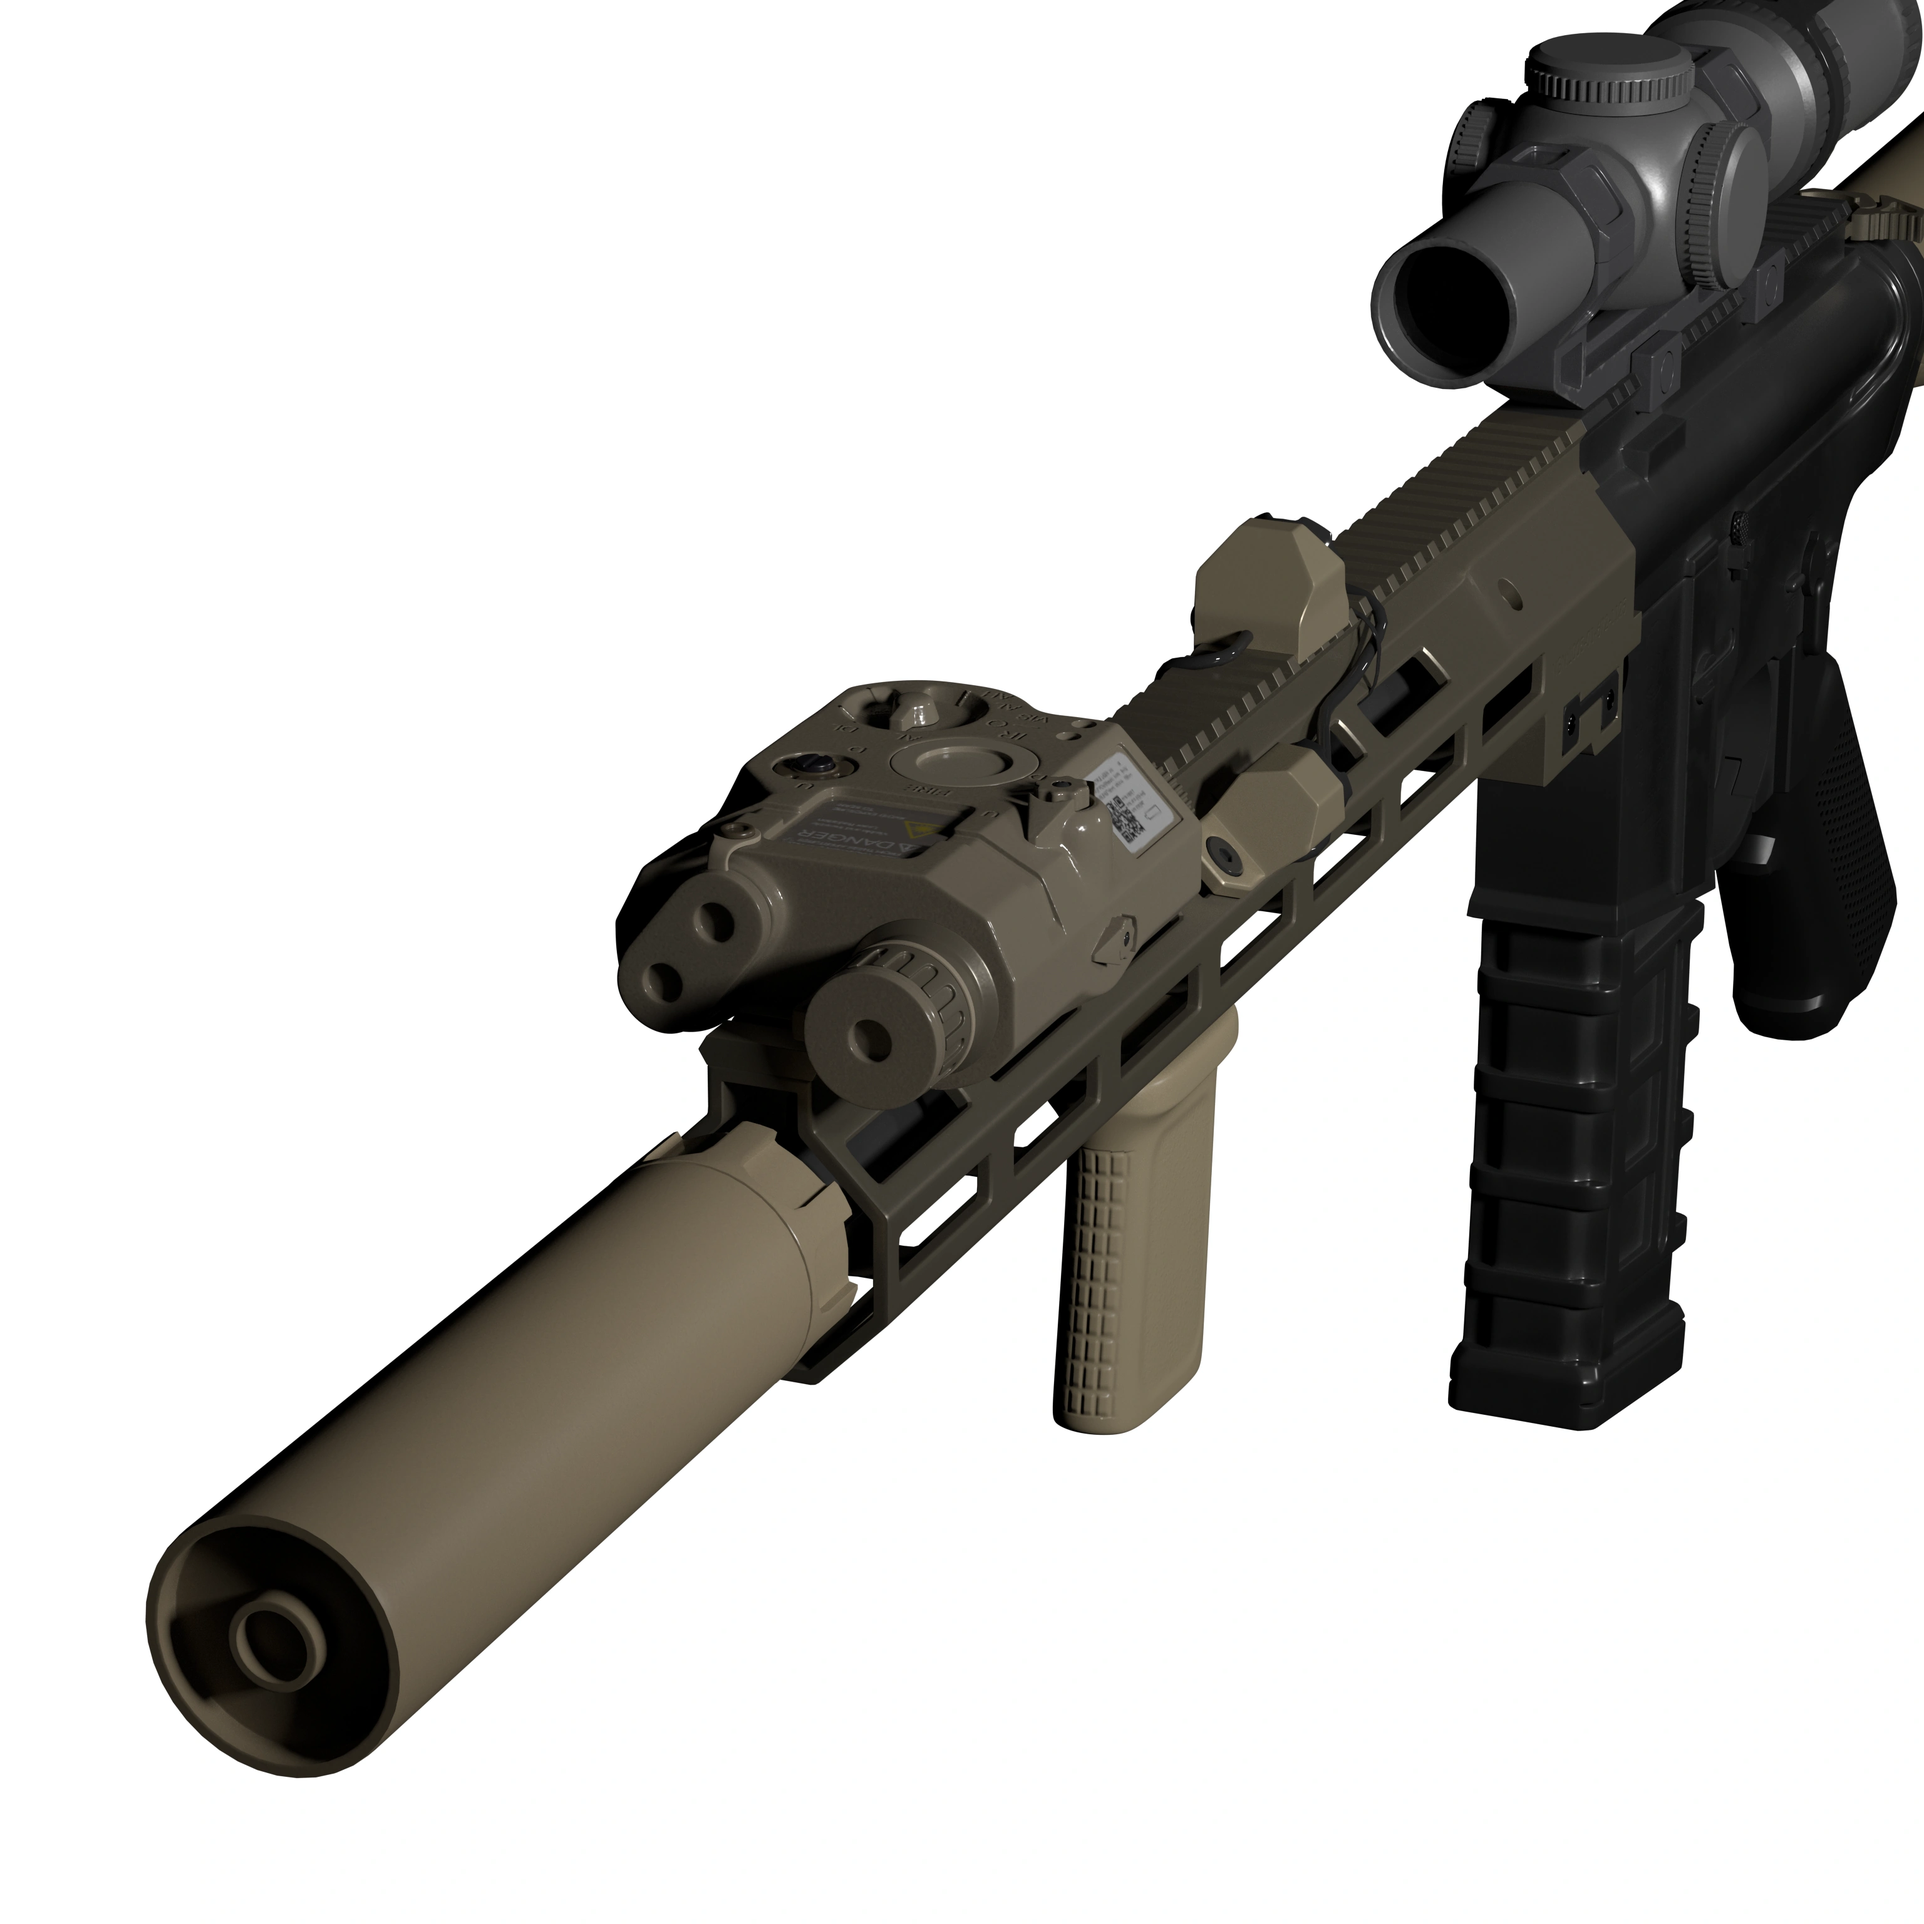
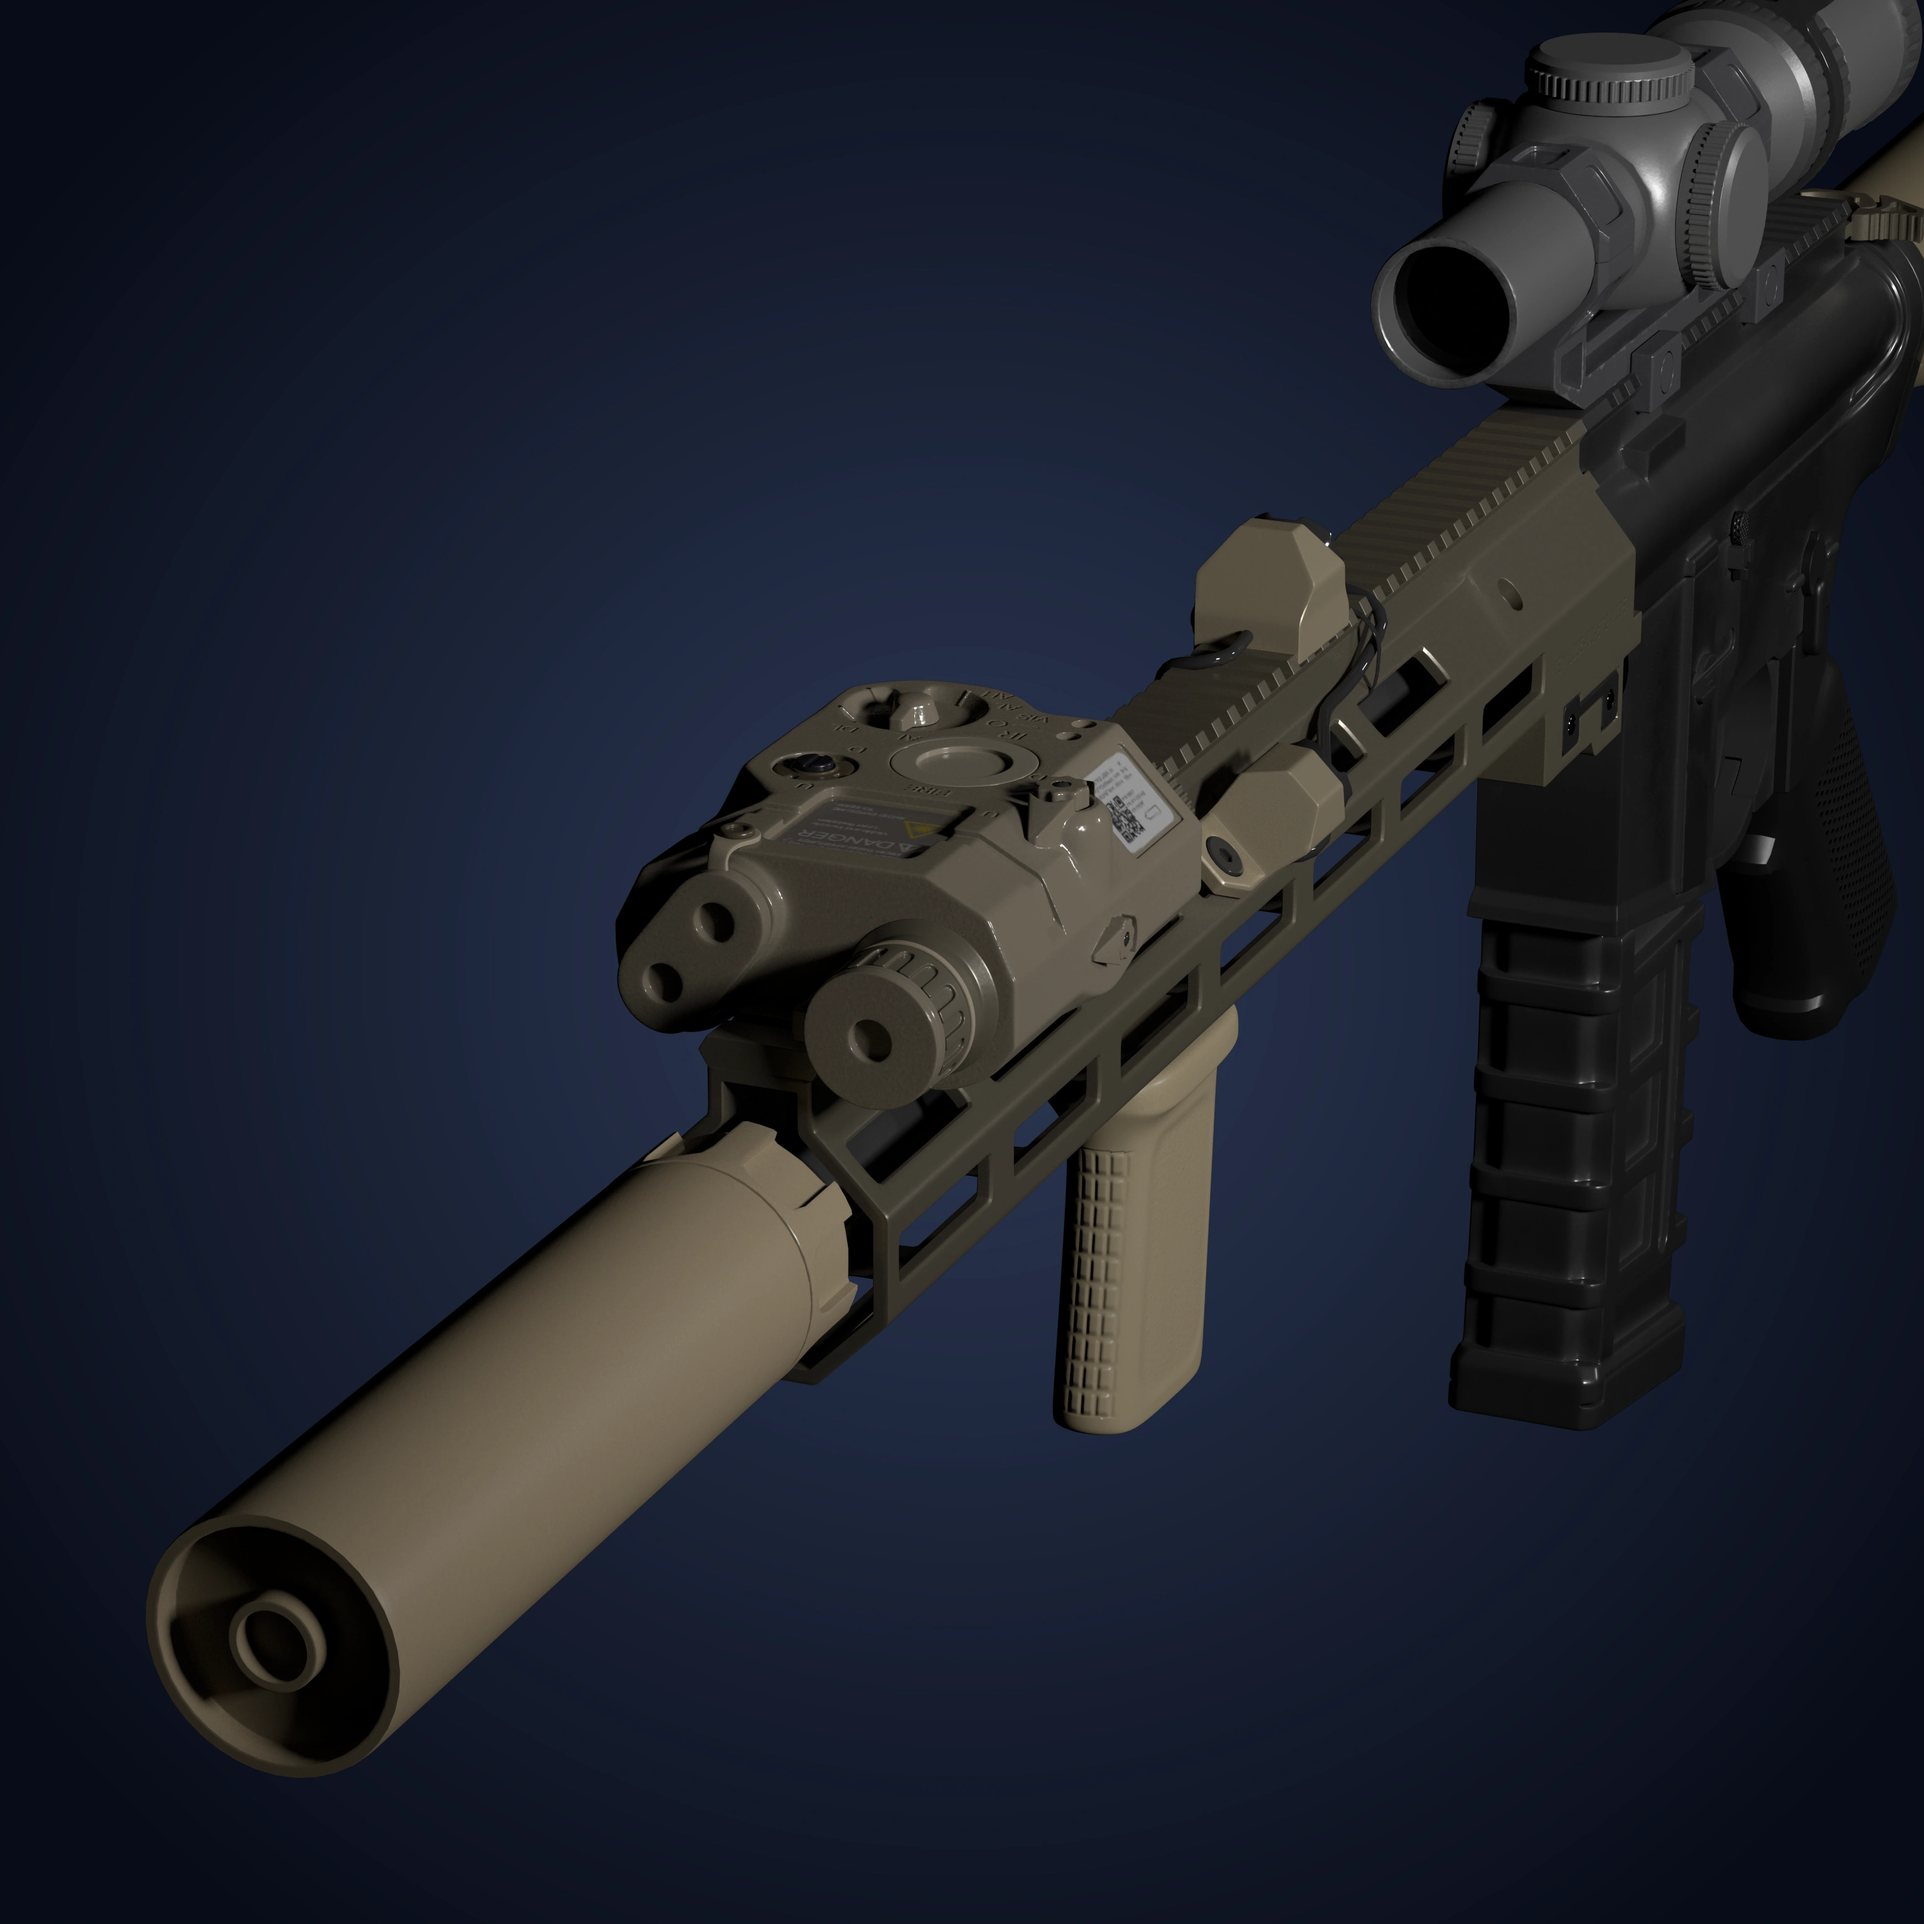
feat: 군인 대표 이미지 교체 + AI 배경 표시 + 총 디테일 어두운 배경

diff --git a/index.html b/index.html
@@ -80,8 +80,8 @@
         <div class="section-title"><h2>3D Works.</h2><p>3D Modeling · Texturing · V-Ray Rendering<br>Maya · Substance Painter · Marvelous Designer<br>Photoshop · ZBrush · Mari · XGen</p></div>
         <h4 class="project-group">Character</h4>
         <div class="work-grid">
-          <button class="work-tile" type="button" data-title="Soldier" data-video="https://www.youtube-nocookie.com/embed/442gYS9wAdw" data-render="assets/3d/soldier_1.webp" data-wire="assets/3d/soldier_1_wire.webp" data-extra="assets/3d/soldier_2.webp,assets/3d/soldier_face_render.webp|assets/3d/soldier_face_wire.webp,assets/3d/soldier_4.webp,assets/3d/soldier_turnaround.jpg" data-thumb="assets/3d/soldier_1_thumb.webp"><span class="work-thumb"><svg viewBox="0 0 120 120" aria-hidden="true"><g fill="none" stroke="currentColor" stroke-width="1.5"><path d="M60 18l36 20v44L60 102 24 82V38z"/><path d="M24 38l36 20 36-20M60 58v44"/></g></svg><span class="work-badge">Render ↔ Wire</span></span><span class="work-name">Soldier</span><span class="work-ko">군인 · 영상</span></button>
-          <button class="work-tile" type="button" data-title="Rifle" data-note="3D 모델링 + Gemini로 배경만 생성한 이미지" data-render="assets/3d/rifle_1.webp" data-wire="" data-extra="assets/3d/rifle_2.webp,assets/3d/rifle_3.webp,assets/3d/rifle_4.webp,assets/3d/rifle_5.webp,assets/3d/rifle_6.webp,assets/3d/rifle_7.webp,assets/3d/rifle_8.webp,assets/3d/rifle_9.webp" data-thumb="assets/3d/rifle_thumb.webp"><span class="work-thumb"><svg viewBox="0 0 120 120" aria-hidden="true"><g fill="none" stroke="currentColor" stroke-width="1.5"><path d="M60 18l36 20v44L60 102 24 82V38z"/><path d="M24 38l36 20 36-20M60 58v44"/></g></svg></span><span class="work-name">Rifle</span><span class="work-ko">소총 · 모델링 디테일</span></button>
+          <button class="work-tile" type="button" data-title="Soldier" data-video="https://www.youtube-nocookie.com/embed/442gYS9wAdw" data-note="3D 모델링 + Gemini로 배경만 생성한 이미지" data-render="assets/3d/soldier_main.webp" data-wire="" data-extra="assets/3d/soldier_1.webp|assets/3d/soldier_1_wire.webp,assets/3d/soldier_2.webp,assets/3d/soldier_face_render.webp|assets/3d/soldier_face_wire.webp,assets/3d/soldier_4.webp,assets/3d/soldier_turnaround.jpg" data-thumb="assets/3d/soldier_main_thumb.webp"><span class="work-thumb"><svg viewBox="0 0 120 120" aria-hidden="true"><g fill="none" stroke="currentColor" stroke-width="1.5"><path d="M60 18l36 20v44L60 102 24 82V38z"/><path d="M24 38l36 20 36-20M60 58v44"/></g></svg><span class="work-badge">Render ↔ Wire</span><span class="work-ai">BG · AI</span></span><span class="work-name">Soldier</span><span class="work-ko">군인 · 영상</span></button>
+          <button class="work-tile" type="button" data-title="Rifle" data-note="3D 모델링 + Gemini로 배경만 생성한 이미지" data-render="assets/3d/rifle_1.webp" data-wire="" data-extra="assets/3d/rifle_2.webp,assets/3d/rifle_3.webp,assets/3d/rifle_4.webp,assets/3d/rifle_5.webp,assets/3d/rifle_6.webp,assets/3d/rifle_7.webp,assets/3d/rifle_8.webp,assets/3d/rifle_9.webp" data-thumb="assets/3d/rifle_thumb.webp"><span class="work-thumb"><svg viewBox="0 0 120 120" aria-hidden="true"><g fill="none" stroke="currentColor" stroke-width="1.5"><path d="M60 18l36 20v44L60 102 24 82V38z"/><path d="M24 38l36 20 36-20M60 58v44"/></g></svg><span class="work-ai">BG · AI</span></span><span class="work-name">Rifle</span><span class="work-ko">소총 · 모델링 디테일</span></button>
         </div>
         <h4 class="project-group">Vehicle</h4>
         <div class="work-grid">

diff --git a/style.css b/style.css
@@ -200,3 +200,6 @@ a.preview-badge{color:#a8bad5}
 .work-video{display:block;width:min(1000px,88vw);aspect-ratio:16/9;border:0;background:#000}
 .works .section-title>p{line-height:1.7}
 .work-note{margin:0 0 6px;font-size:12px;color:#8d9bb5;text-align:center}
+/* ── 10/7 수정11: AI 배경 표시 ── */
+.work-ai{position:absolute;left:10px;top:10px;font-size:11px;padding:4px 8px;border-radius:12px;background:rgba(8,12,24,.72);color:#dce6f5;border:1px solid rgba(206,222,246,.25)}
+.work-note{margin:2px 0 8px;font-size:13px;color:#b9c7dd;text-align:center}
